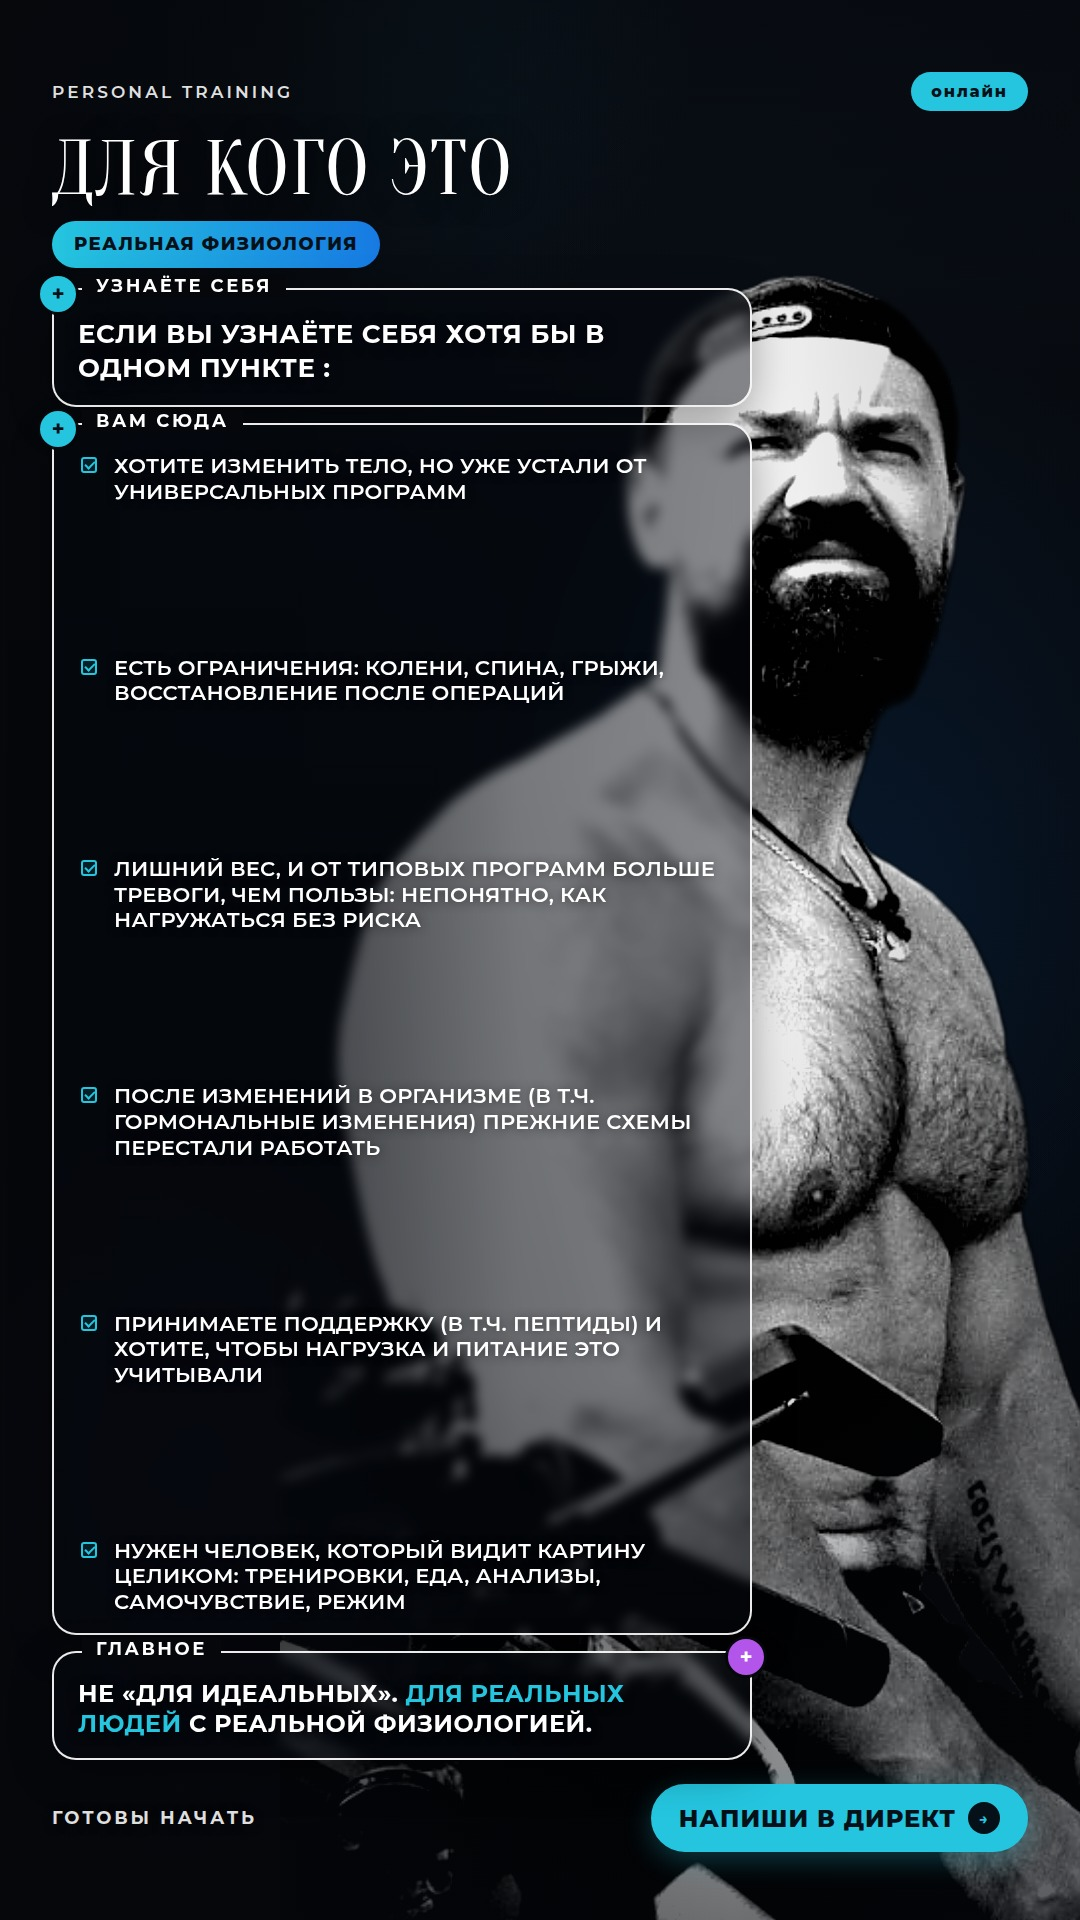
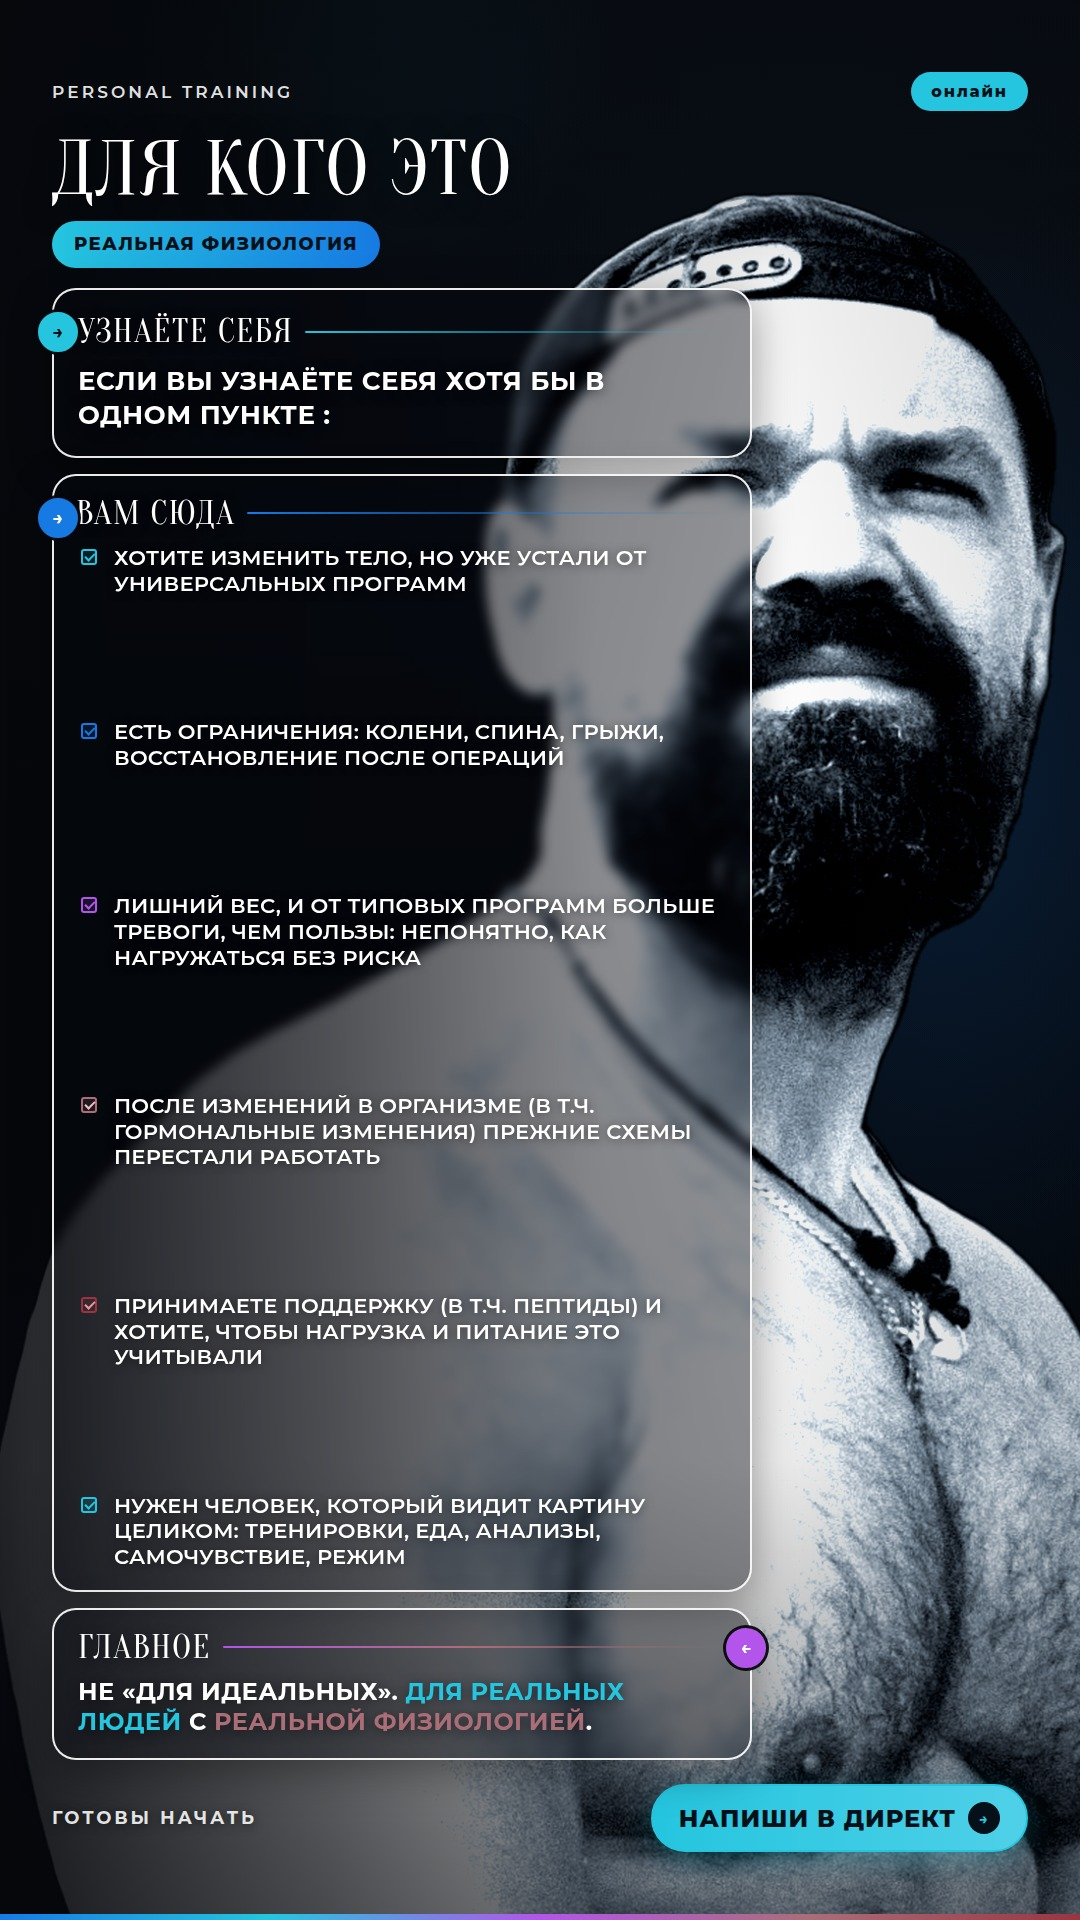
Refine «Для кого это»: tariff typography + full Coolors palette
Match tariff writing (Oranienbaum section labels, arrows, rules), use all
five Coolors accents, and place a brighter Artur cutout on the right like
the B&W reference for stronger presence behind the cards.

diff --git a/stories/dlya-kogo.html b/stories/dlya-kogo.html
@@ -7,16 +7,22 @@
   <link rel="stylesheet" href="fonts/fonts-ref.css" />
   <style>
     :root {
-      /* Coolors 177ae3-9b3441-b355eb-ab6d78-25c5df */
+      /* Coolors 177ae3-9b3441-b355eb-ab6d78-25c5df — все цвета в UI */
+      --blue: #177AE3;
+      --burgundy: #9B3441;
+      --purple: #B355EB;
+      --rose: #AB6D78;
+      --cyan: #25C5DF;
+
       --text: #FFFFFF;
       --muted: rgba(255, 255, 255, 0.88);
-      --accent: #25C5DF;
-      --accent-2: #177AE3;
-      --accent-3: #B355EB;
-      --rose: #AB6D78;
-      --burgundy: #9B3441;
+      --accent: var(--cyan);
+      --accent-2: var(--blue);
+      --accent-3: var(--purple);
+      --accent-4: var(--rose);
+      --accent-5: var(--burgundy);
       --line: rgba(255, 255, 255, 0.92);
-      --card: rgba(5, 8, 14, 0.48);
+      --card: rgba(5, 8, 14, 0.42);
       --ink: #061018;
       --bg: #05070b;
     }
@@ -39,23 +45,24 @@
       font-family: "Montserrat", sans-serif;
       text-transform: uppercase;
       background:
-        radial-gradient(ellipse 70% 50% at 82% 48%, rgba(23, 122, 227, 0.16) 0%, transparent 60%),
-        radial-gradient(ellipse 55% 40% at 12% 78%, rgba(179, 85, 235, 0.10) 0%, transparent 55%),
-        radial-gradient(ellipse 50% 35% at 40% 0%, rgba(37, 197, 223, 0.08) 0%, transparent 50%),
-        linear-gradient(180deg, #0a1018 0%, #05070b 45%, #030508 100%);
+        radial-gradient(ellipse 65% 55% at 88% 42%, rgba(23, 122, 227, 0.20) 0%, transparent 58%),
+        radial-gradient(ellipse 50% 40% at 8% 82%, rgba(179, 85, 235, 0.14) 0%, transparent 55%),
+        radial-gradient(ellipse 45% 30% at 35% 0%, rgba(37, 197, 223, 0.10) 0%, transparent 50%),
+        radial-gradient(ellipse 40% 28% at 70% 92%, rgba(155, 52, 65, 0.16) 0%, transparent 55%),
+        linear-gradient(180deg, #0a1018 0%, #05070b 48%, #030508 100%);
     }
 
-    /* Artur — right side, same visual weight as the girl on the B&W reference */
+    /* Artur справа — тот же визуальный вес, что девушка на B&W-референсе */
     .story-bg {
       position: absolute;
-      left: 280px;
-      bottom: -30px;
-      height: 1680px;
+      right: -120px;
+      bottom: -20px;
+      height: 1750px;
       width: auto;
       z-index: 0;
       pointer-events: none;
       user-select: none;
-      filter: contrast(1.2) brightness(1.35) grayscale(1);
+      filter: contrast(1.12) brightness(1.22) saturate(1.05);
     }
 
     .story-dim {
@@ -65,19 +72,19 @@
       background:
         linear-gradient(
           90deg,
-          rgba(5, 7, 11, 0.90) 0%,
-          rgba(5, 7, 11, 0.55) 26%,
-          rgba(5, 7, 11, 0.12) 48%,
-          rgba(5, 7, 11, 0.00) 68%,
-          rgba(5, 7, 11, 0.22) 100%
+          rgba(5, 7, 11, 0.88) 0%,
+          rgba(5, 7, 11, 0.48) 30%,
+          rgba(5, 7, 11, 0.08) 55%,
+          rgba(5, 7, 11, 0.00) 72%,
+          rgba(5, 7, 11, 0.10) 100%
         ),
         linear-gradient(
           180deg,
-          rgba(5, 7, 11, 0.50) 0%,
-          rgba(5, 7, 11, 0.04) 14%,
+          rgba(5, 7, 11, 0.48) 0%,
+          rgba(5, 7, 11, 0.06) 14%,
           rgba(5, 7, 11, 0.00) 40%,
-          rgba(5, 7, 11, 0.10) 72%,
-          rgba(5, 7, 11, 0.58) 100%
+          rgba(5, 7, 11, 0.08) 76%,
+          rgba(5, 7, 11, 0.50) 100%
         );
     }
 
@@ -133,7 +140,7 @@
     .title-accent {
       display: inline-flex;
       align-self: flex-start;
-      background: linear-gradient(90deg, var(--accent), var(--accent-2));
+      background: linear-gradient(90deg, var(--cyan), var(--blue));
       color: var(--ink);
       border-radius: 999px;
       padding: 12px 22px 13px;
@@ -159,63 +166,97 @@
       background: var(--card);
       backdrop-filter: blur(6px);
       -webkit-backdrop-filter: blur(6px);
-      padding: 28px 24px 20px;
+      padding: 20px 24px 22px;
       flex: 0 0 auto;
       box-shadow: 0 12px 40px rgba(0, 0, 0, 0.35);
     }
 
+    .card.start { padding: 22px 24px 24px; }
+
     .card.main {
-      padding: 28px 22px 18px;
+      padding: 18px 22px 20px;
       flex: 1 1 auto;
       display: flex;
       flex-direction: column;
       min-height: 0;
     }
 
-    .card.who {
-      padding: 26px 24px 18px;
-    }
-
-    .card-label {
-      position: absolute;
-      top: -15px;
-      left: 28px;
-      padding: 0 14px;
-      background: #05070b;
-      font-family: "Montserrat", sans-serif;
-      font-size: 18px;
-      font-weight: 700;
-      letter-spacing: 0.14em;
-      color: #fff;
-      white-space: nowrap;
-    }
+    .card.who { padding: 18px 24px 20px; }
 
     .card-arrow {
       position: absolute;
-      width: 36px;
-      height: 36px;
+      width: 40px;
+      height: 40px;
       border-radius: 50%;
+      border: 2px solid var(--accent);
       background: var(--accent);
-      color: var(--ink);
       display: grid;
       place-items: center;
-      font-size: 22px;
+      font-size: 18px;
       font-weight: 700;
+      color: var(--ink);
       line-height: 1;
       box-shadow: 0 0 0 3px rgba(5, 7, 11, 0.95);
     }
 
-    .card.start .card-arrow,
+    .card.start .card-arrow {
+      left: -16px;
+      top: 22px;
+      background: var(--cyan);
+      border-color: var(--cyan);
+    }
+
     .card.main .card-arrow {
-      left: -14px;
-      top: -14px;
+      left: -16px;
+      top: 22px;
+      background: var(--blue);
+      border-color: var(--blue);
+      color: #fff;
     }
 
     .card.who .card-arrow {
-      right: -14px;
-      top: -14px;
-      background: var(--accent-3);
+      right: -16px;
+      top: 18px;
+      background: var(--purple);
+      border-color: var(--purple);
       color: #fff;
+    }
+
+    .section-label {
+      display: flex;
+      align-items: center;
+      gap: 12px;
+      margin-bottom: 14px;
+      flex-shrink: 0;
+    }
+
+    .card.main .section-label { margin-bottom: 12px; }
+    .card.who .section-label { margin-bottom: 10px; }
+
+    .section-label h2 {
+      font-family: "Oranienbaum", "Playfair Display", serif;
+      font-size: 34px;
+      font-weight: 400;
+      letter-spacing: 0.04em;
+      color: #fff;
+      text-shadow: 0 2px 12px rgba(0,0,0,0.55);
+      white-space: nowrap;
+    }
+
+    .section-label .rule {
+      flex: 1;
+      height: 2px;
+      border-radius: 2px;
+    }
+
+    .card.start .section-label .rule {
+      background: linear-gradient(90deg, var(--cyan), rgba(37, 197, 223, 0));
+    }
+    .card.main .section-label .rule {
+      background: linear-gradient(90deg, var(--blue), rgba(23, 122, 227, 0));
+    }
+    .card.who .section-label .rule {
+      background: linear-gradient(90deg, var(--purple), var(--rose), rgba(171, 109, 120, 0));
     }
 
     .lead {
@@ -254,11 +295,17 @@
       height: 16px;
       margin-top: 4px;
       border-radius: 3px;
-      border: 2px solid var(--accent);
+      border: 2px solid var(--cyan);
       background: rgba(37, 197, 223, 0.12);
       position: relative;
       justify-self: center;
     }
+
+    li:nth-child(2) .mark { border-color: var(--blue); background: rgba(23, 122, 227, 0.14); }
+    li:nth-child(3) .mark { border-color: var(--purple); background: rgba(179, 85, 235, 0.14); }
+    li:nth-child(4) .mark { border-color: var(--rose); background: rgba(171, 109, 120, 0.18); }
+    li:nth-child(5) .mark { border-color: var(--burgundy); background: rgba(155, 52, 65, 0.18); }
+    li:nth-child(6) .mark { border-color: var(--cyan); background: rgba(37, 197, 223, 0.12); }
 
     li .mark::after {
       content: "";
@@ -267,10 +314,16 @@
       top: 0px;
       width: 4px;
       height: 8px;
-      border: solid var(--accent);
+      border: solid var(--cyan);
       border-width: 0 2px 2px 0;
       transform: rotate(45deg);
     }
+
+    li:nth-child(2) .mark::after { border-color: var(--blue); }
+    li:nth-child(3) .mark::after { border-color: var(--purple); }
+    li:nth-child(4) .mark::after { border-color: #E8C4CA; }
+    li:nth-child(5) .mark::after { border-color: #E89AA3; }
+    li:nth-child(6) .mark::after { border-color: var(--cyan); }
 
     .who p {
       font-size: 24px;
@@ -281,9 +334,8 @@
       text-shadow: 0 2px 12px rgba(0, 0, 0, 0.55);
     }
 
-    .who p .em {
-      color: var(--accent);
-    }
+    .who p .em { color: var(--cyan); }
+    .who p .em2 { color: var(--rose); }
 
     .cta {
       margin-top: 4px;
@@ -306,8 +358,8 @@
       display: inline-flex;
       align-items: center;
       gap: 12px;
-      border: 2px solid var(--accent);
-      background: var(--accent);
+      border: 2px solid var(--cyan);
+      background: linear-gradient(90deg, var(--cyan), #4FD0E8);
       color: var(--ink);
       border-radius: 999px;
       padding: 16px 26px;
@@ -322,12 +374,29 @@
       height: 32px;
       border-radius: 50%;
       background: var(--ink);
-      color: var(--accent);
+      color: var(--cyan);
       display: grid;
       place-items: center;
       font-size: 15px;
       line-height: 1;
       font-weight: 700;
+    }
+
+    .accent-bar {
+      position: absolute;
+      left: 0;
+      right: 0;
+      bottom: 0;
+      height: 6px;
+      z-index: 3;
+      background: linear-gradient(
+        90deg,
+        var(--blue) 0%,
+        var(--cyan) 25%,
+        var(--purple) 50%,
+        var(--rose) 75%,
+        var(--burgundy) 100%
+      );
     }
   </style>
 </head>
@@ -348,14 +417,20 @@
 
       <div class="cards">
         <section class="card start">
-          <div class="card-arrow">+</div>
-          <div class="card-label">Узнаёте себя</div>
+          <div class="card-arrow">→</div>
+          <div class="section-label">
+            <h2>Узнаёте себя</h2>
+            <div class="rule"></div>
+          </div>
           <p class="lead">Если вы узнаёте себя хотя бы в одном пункте :</p>
         </section>
 
         <section class="card main">
-          <div class="card-arrow">+</div>
-          <div class="card-label">Вам сюда</div>
+          <div class="card-arrow">→</div>
+          <div class="section-label">
+            <h2>Вам сюда</h2>
+            <div class="rule"></div>
+          </div>
           <ul>
             <li>
               <span class="mark"></span>
@@ -385,9 +460,12 @@
         </section>
 
         <section class="card who">
-          <div class="card-arrow">+</div>
-          <div class="card-label">Главное</div>
-          <p>Не «для идеальных». <span class="em">Для реальных людей</span> с реальной физиологией.</p>
+          <div class="card-arrow">←</div>
+          <div class="section-label">
+            <h2>Главное</h2>
+            <div class="rule"></div>
+          </div>
+          <p>Не «для идеальных». <span class="em">Для реальных людей</span> с <span class="em2">реальной физиологией</span>.</p>
         </section>
       </div>
 
@@ -399,6 +477,7 @@
         </div>
       </div>
     </div>
+    <div class="accent-bar" aria-hidden="true"></div>
   </div>
 </body>
 </html>

diff --git a/stories/README-dlya-kogo.md b/stories/README-dlya-kogo.md
@@ -9,11 +9,10 @@
 
 ## Что на слайде
 
-- **Композиция:** Артур справа (как девушка на B&W-референсе), текст слева/поверх с контролем читаемости
-- **Фото:** cutout без фона, high-contrast B&W под стиль референса
-- **Шрифты как у тарифа:** Oranienbaum (заголовок) + Montserrat (текст, ALL CAPS)
-- **Структура как у тарифа «План»:** 3 карточки с лейблами на бордере + CTA
-- **Палитра Coolors** `177ae3-9b3441-b355eb-ab6d78-25c5df` (акцент — cyan `#25C5DF`)
+- **Шрифты и написание как у тарифа «План»:** Oranienbaum (заголовки секций) + Montserrat ALL CAPS, стрелки `→`/`←`, rule-линии, CTA
+- **Палитра Coolors** `177ae3-9b3441-b355eb-ab6d78-25c5df` — все 5 цветов в акцентах, чекбоксах, градиентах и нижней полосе
+- **Композиция:** Артур справа (как девушка на B&W-референсе), крупный cutout без фона, cool-дуотон под палитру; текст поверх с полупрозрачными карточками
+- **3 блока контента** как в брифе
 
 ## Контент
 
